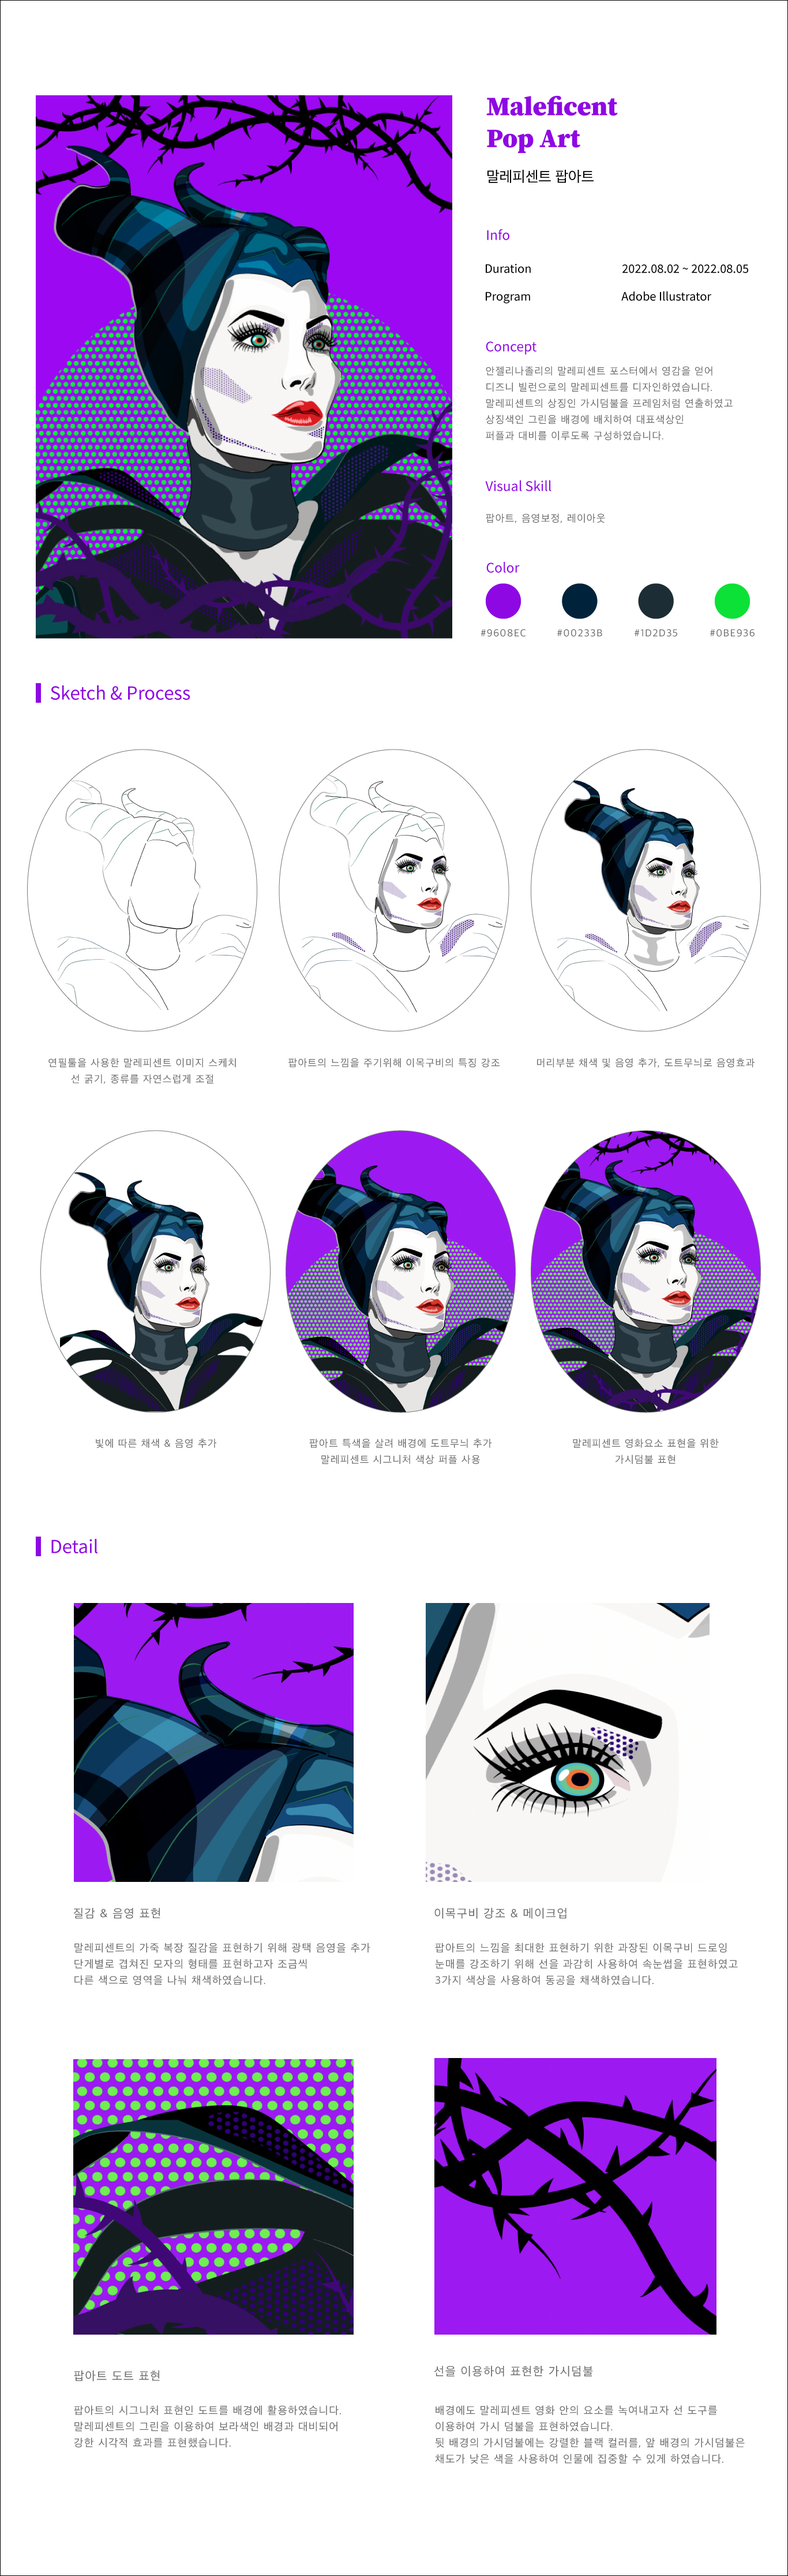
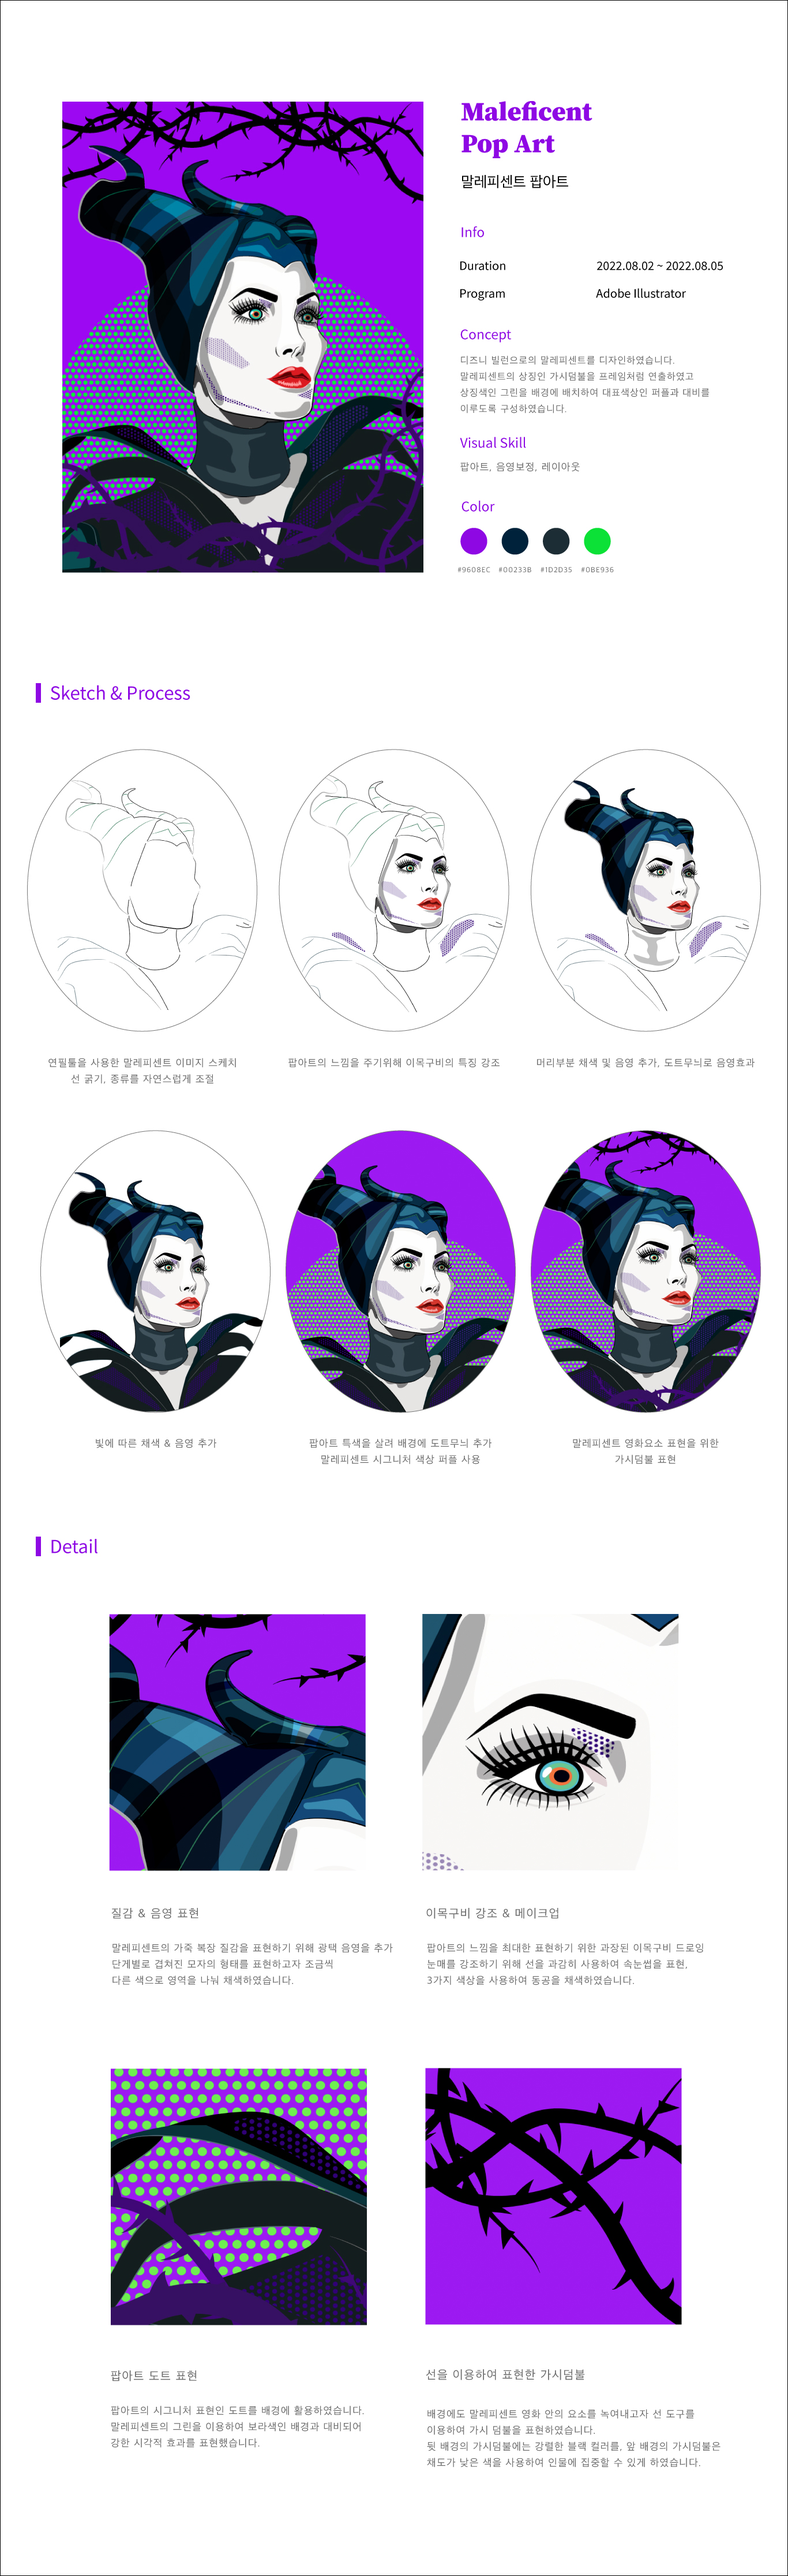
pop

diff --git a/popart.css b/popart.css
@@ -20,6 +20,7 @@ body {
     overflow-x: hidden;
     overflow-y: auto;
     font-family: 'Roboto', sans-serif;
+    padding: 0 300px;
 }
 
 img {
